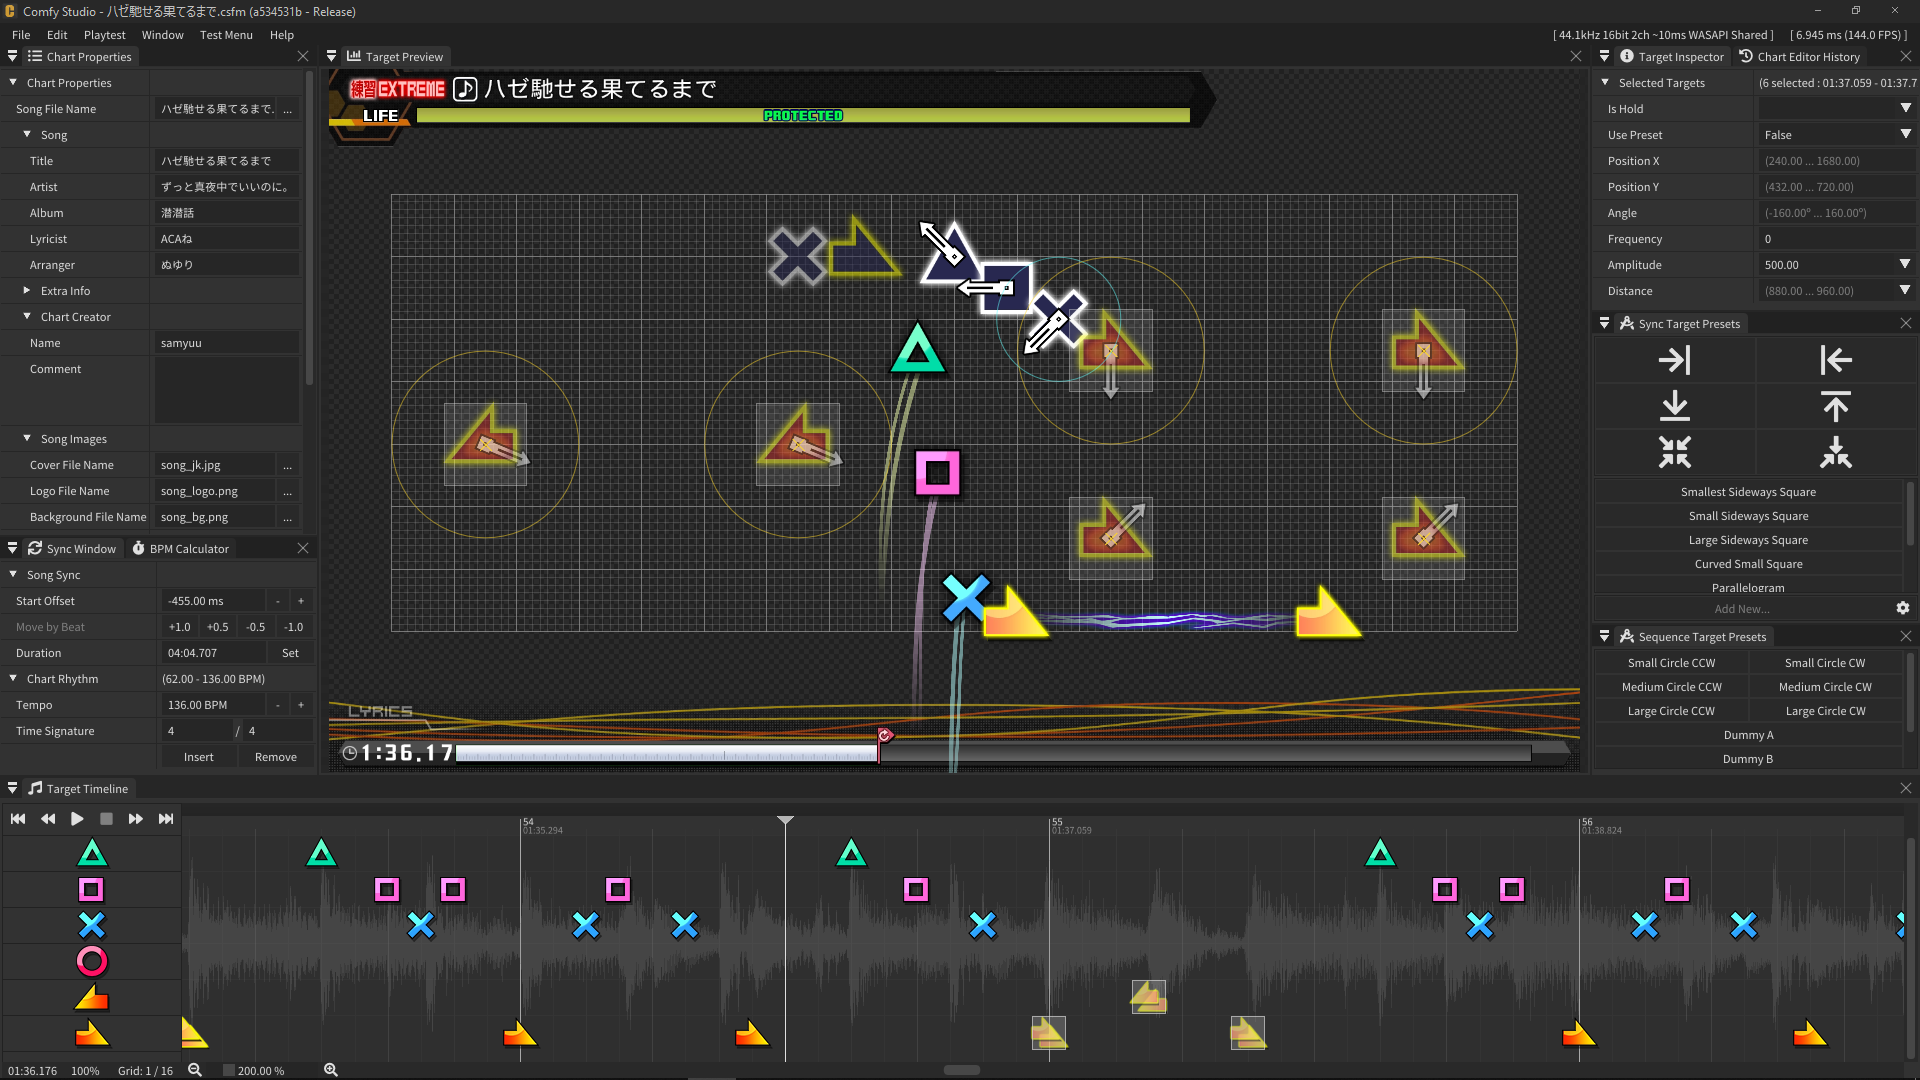
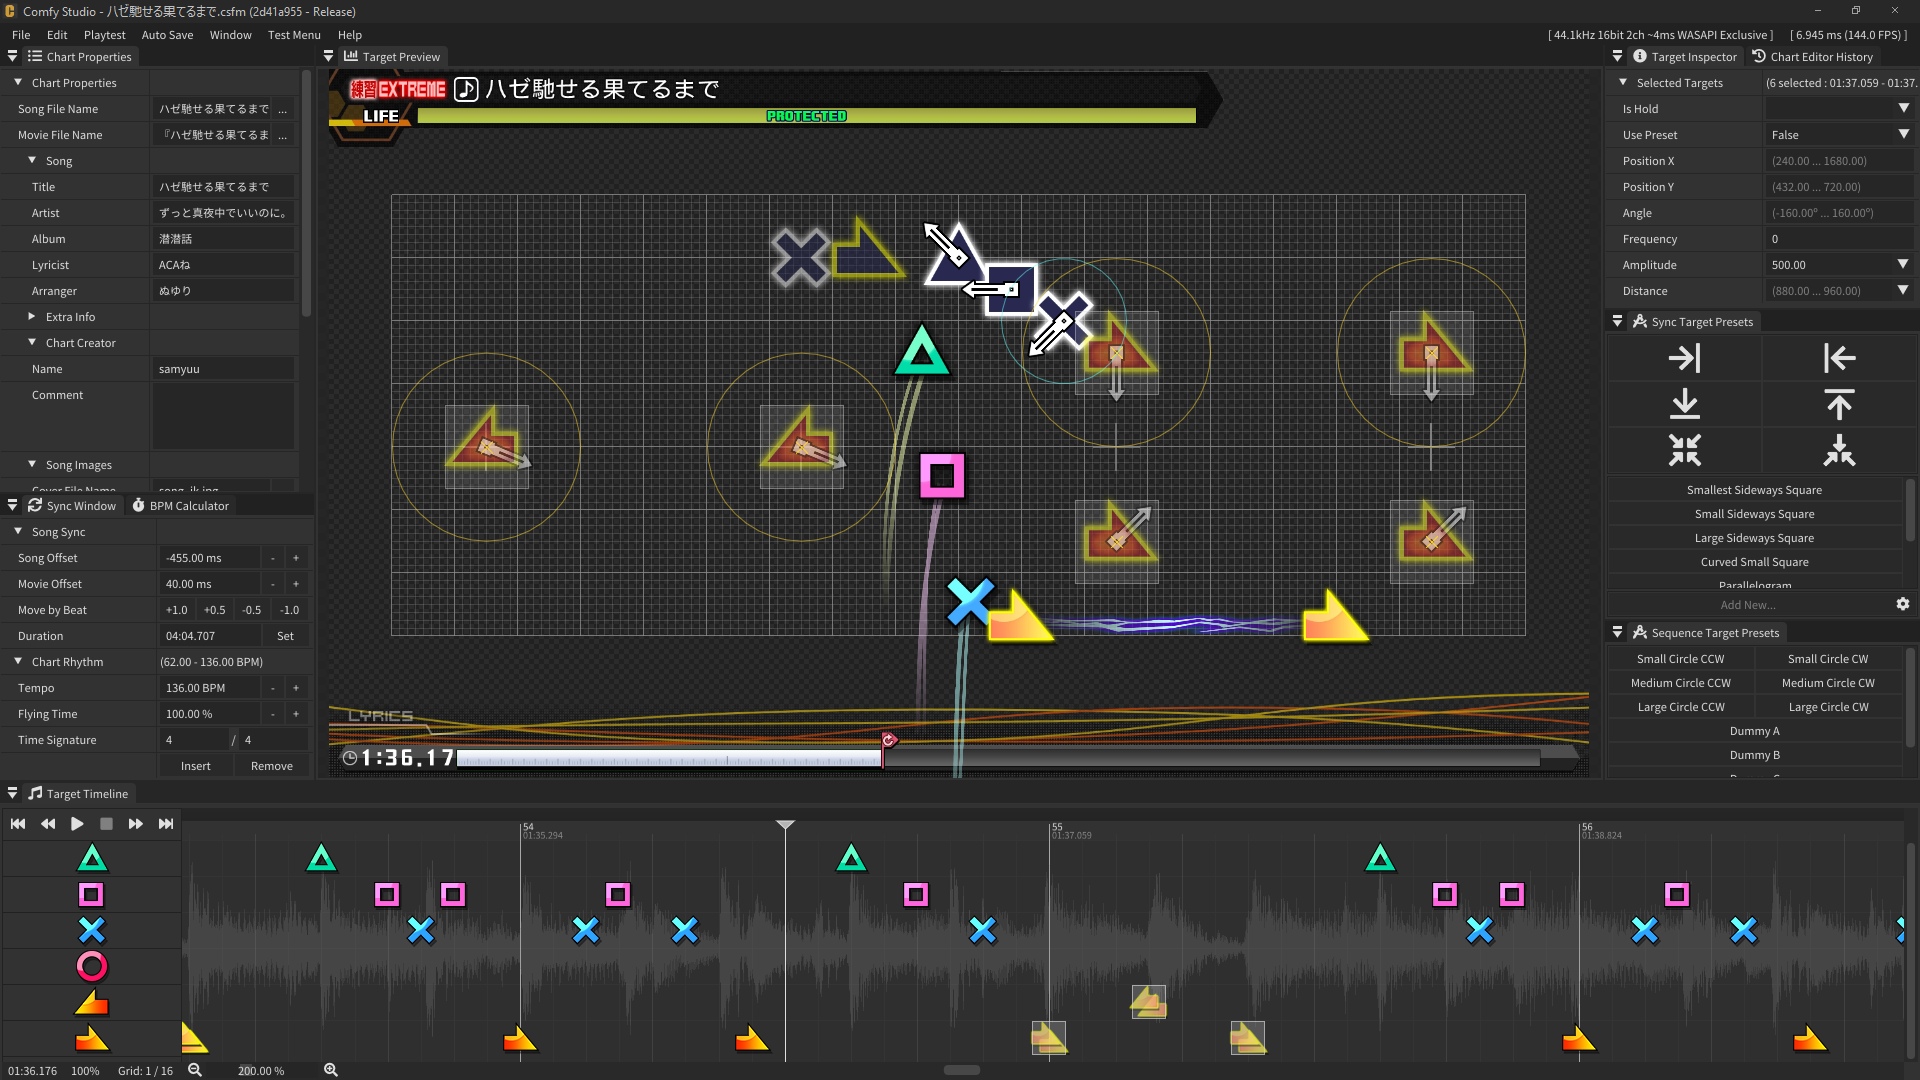
ComfyStudio finally update manual

diff --git a/ComfyStudio/manual/comfy_manual.html b/ComfyStudio/manual/comfy_manual.html
@@ -30,9 +30,9 @@
         <header class="MainHeader">
             <div>
                 <img class="MainHeaderIcon" src="image/comfy_icon.ico">
-                <h1>Comfy Studio Chart Editor (Beta)</h1>
+                <h1>Comfy Studio Chart Editor</h1>
                 <!-- TODO: Keep this updated :Sadge: -->
-                <h4>User Manual - <time>(2021/04/22)</time></h4>
+                <h4>User Manual - <time>(2021/12/02)</time></h4>
             </div>
             <div>
                 <img class="MainHeaderImage" src="image/other/editor_example_chart.png">
@@ -181,13 +181,17 @@
             </div>
 
             <div class="TextBlock">
-                <p>The currently supported audio file formats are:</p>
+                <p>The natively supported audio file formats are:</p>
                 <ul>
                     <li>Free Lossless Audio Codec (*.flac)</li>
                     <li>Ogg Vorbis (*.ogg)</li>
                     <li>MPEG Audio Layer III (*.mp3)</li>
                     <li>Waveform Audio File Format (*.wav)</li>
                 </ul>
+                <p>
+                    With an additional option of using a <em>video file</em> as audio source
+                    as long as it is supported by Microsoft Media Foundation on the current system.
+                </p>
             </div>
             <div class="ImageBlock">
                 <img src="image/other/file_dialog_audio_file_types.png">
@@ -202,6 +206,28 @@
             <div class="ImageBlock">
                 <img src="image/timeline/waveform_example.png">
             </div>
+
+            <div class="TextBlock">
+                <p>
+                    In addition to loading an audio file an optional background video can also be selected
+                    the same way via the <code>Movie File Name</code> widget.
+                    <br>
+                    If a video file is dropped onto the window and no audio file has been selected yet
+                    then the video file will automatically be set as both the audio and video source.
+                </p>
+                <figure class="NoteFigure">
+                    <p>
+                        <strong>Note:</strong> Rendering of a video file inside Comfy Studio requires
+                        a GPU with hardware accelerated Media Foundation support
+                        to be available for the specified codec as well as Windows 8 or newer.
+                        <br>
+                        Media Foundation plugins for additional codecs such as H.265 and VP9
+                        may have to be installed
+                        <a href="https://codecguide.com/media_foundation_codecs.htm" target="_blank">externally</a>
+                    </p>
+                </figure>
+            </div>
+
         </section>
         <hr>
         <section class="SubSection" id="setting-metadata">
@@ -290,12 +316,6 @@
                                 The default button sounds associated with the chart and the sounds used inside the
                                 editor as well as during playtesting.
                             </p>
-
-                            <figure class="NoteFigure">
-                                <p>
-                                    <strong>Note:</strong> <em>Right Click</em> a combo box item to preview its sound.
-                                </p>
-                            </figure>
                         </ul>
                     </div>
                 </div>
@@ -321,36 +341,41 @@
                     The <em>Sync Window</em> is the main method of setting a song's tempo, start offset and duration.
                 </p>
                 <p>
-                    The <code>Start Offset</code> widget is used for setting the offset of the song audio file relative
+                    The <code>Song Offset</code> widget is used for setting the offset of the song audio file relative
                     to the
                     start of the chart.
                     A <em>negative</em> offset results in the song starting <em>later</em>, a <em>positive</em> offset
                     <em>earlier</em>. The Target Timeline waveform can be a very useful tool in finding a suitable
                     offset.
                     <br>
+                    <code>Move Offset</code> matches the behavior of the <code>Song Offset</code>
+                    but is instead applied to the the background movie file.
+                    <br>
                     The <code>Move by Beat</code> buttons add or subtract a fraction of the duration of a beat at the
-                    initial tempo to the Start Offset.
-                    This is especially useful when for example delaying the start offset of a song up to the second
+                    initial tempo to the Song Offset
+                    and is especially useful when delaying the offset of a song up to the second
                     <span class="TimeSigSpan"><sup class="TimeSigSup"><b>4</b></sup><br><sup
                             class="TimeSigSup"><b>4</b></sub></span>
-                    bar as is recommended.
+                    bar as it needs to be.
                     <br>
                     The <code>Duration</code> widget is used for entering the duration of the chart. Upon initially
                     loading an audio file the duration is automatically set to its duration.
                     The <code>Set</code> button can be used to set the Duration to that of the current Target Timeline
                     Cursor position.
                 </p>
+                <!-- TODO: Example video of changing song offset using drag text -->
                 <p>
-                    The <code>Tempo</code> and <code>Time Signature</code> widgets
+                    The <code>Tempo</code>, <code>Flying Time</code> and <code>Time Signature</code> widgets
                     operate on the current Target Timeline cursor position.
                     If the cursor does not sit on an existing Tempo Change, a new one is inserted automatically.
                     <br>
                     Pressing the <code>Remove</code> button removes the tempo change at the cursor position, the very
                     first tempo change however can not be removed.
                     <br>
-                    Allowed tempos range from <code>30.00 BPM</code> to <code>960.00 BPM</code>
-                    and both the numerator and denominator of the time signature may range from <code>1</code> to
-                    <code>64</code>.
+                    Allowed tempos range from <code>30.00 BPM</code> to <code>960.00 BPM</code>,
+                    flying times from <code>50.00 %</code> to <code>400.00 %</code>
+                    and both the numerator and denominator of the time signature
+                    can be set anywhere from <code>1</code> to <code>64</code>.
                 </p>
 
                 <figure class="NoteFigure">
@@ -372,6 +397,21 @@
                 <p>
                     Alternatively <code>Right Mouse</code> click on an existing Tempo Change in the Target Timeline to
                     open an edit popup with similar functionality to the Sync Window Chart Rhythm widgets.
+                    <br>
+                    Each tempo change (except for the very first) can specify one or more of the 3 available properties:
+                    <code>Tempo</code>, <code>Flying Time</code> and <code>Time Signature</code>.
+                    The <code>Flying Time</code> field can be used to optionally speed up or slow down
+                    the time it takes for a <em>button</em> to each its <em>target</em> after spawning
+                    which in turn makes it appear to be moving slower or faster.
+                </p>
+                <p>
+                    A change in tempo and or flying time takes effect visually after a
+                    <span class="TimeSigSpan"><sup class="TimeSigSup"><b>4</b></sup><br><sup
+                            class="TimeSigSup"><b>4</b></sub></span>
+                    bar transition period.
+                    <br>
+                    The <code>Time Signature</code> field changes the spacing between bar lines drawn on the
+                    timeline as well as the sound pattern of the in-editor metronome when enabled.
                 </p>
             </div>
             <div class="ImageBlock">
@@ -497,7 +537,8 @@
                         <strong>Note:</strong> Targets <strong>mustn't</strong> be placed inside the first <span
                             class="TimeSigSpan"><sup class="TimeSigSup"><b>4</b></sup><br>
                             <sup class="TimeSigSup"><b>4</b></sub> </span> bar (indicated by a darkened background)
-                        as it takes a Button the duration of <em>1 bar</em> to fly towards its Target.
+                        as it takes a Button the duration of <em>1 bar</em> to (at 100% flying speed) to fly towards its
+                        Target.
                     </p>
                 </figure>
             </div>
@@ -519,7 +560,8 @@
                     the <code>Chain Slide Division</code> context menu options.
                     <br>
                     Holding down <code>Shift</code> and pressing a <em>non-slide</em> button key will fill in the
-                    range-selection at the current grid division level with normal targets instead.
+                    range-selection at the current grid division level with normal targets instead (sometimes referred
+                    to as "spam").
                 </p>
             </div>
             <div class="ImageBlock">
@@ -549,7 +591,7 @@
                         and can only be moved if <em>all</em> targets within a sync pair are selected.
                         <br>
                         To separate sync targets and or move targets past each other
-                        the <code>Cut</code> and <code>Paste</code> commands can be used instead.
+                        the <code>Cut</code> and <code>Paste</code> commands should be used instead.
                     </p>
                 </figure>
             </div>
@@ -912,6 +954,7 @@
                     applied to a sync target pair without variations.
                 </p>
                 <p>
+                    <!-- TODO: Finally implement this properly -->
                     At the moment these static sync presets <strong>can not yet be configured</strong>
                     inside the program itself and the <code>Add New...</code> button serves as a placeholder.
                 </p>
@@ -1043,8 +1086,9 @@
                     Sequence presets are applied and previewed the same way
                     as by the <em>Sync Target Presets</em> window.
                     <br>
+                    <!-- TODO: Finally implement this properly -->
                     This feature is <strong>still in development</strong>
-                    and only clockwise / counterclockwise circle presets are available at the moment.
+                    and only basic clockwise / counterclockwise circle presets are available at the moment.
                 </p>
             </div>
             <div class="ImageBlock">
@@ -1123,26 +1167,18 @@
 
             <div class="TextBlock">
                 <p>
-                    Once a chart is completed it can be exported as a <code>.dsc</code> PV Script to be used in-game
+                    A chart can be exported as a <code>.dsc</code> PV Script to be used in-game
                     through either the <code>File > Export > Export PV Script Chart...</code> menu option
                     (to export a single chart file without any additional data)
                     or through <code>File > Export > Export PV Script MData...</code>
-                    (to export a complete MData folder together with all associated files required to be playable).
+                    (to export a single chart as well as an MData folder together
+                    with all its associated files required to be playable right away).
                 </p>
                 <p>
                     At the moment only the <em>Arcade</em> export target format is supported
                     and only a single chart can be exported at a time.
                     If the <em>Output MData ID</em> folder <strong>already exists</strong>
                     then it will be <strong>overwritten</strong>.
-                    <br>
-                    Advanced auto-merge compatibility options are planned for the future
-                    but to export multiple charts at this time requires exporting each chart as its own MData folder
-                    with an incrementing MData ID while always merging with the last.
-                </p>
-                <p>
-                    If enabled the <code>Dummy Movie Reference</code> option adds a <code>pv_db.txt</code> movie file
-                    reference with a name matching that of the output chart + <code>.mp4</code>
-                    as well as <code>.dsc</code> movie play commands at the same time as the music starts.
                 </p>
                 <p>
                     If the chart audio source file isn't already an Ogg Vorbis file
@@ -1160,13 +1196,32 @@
                     If more control over the audio conversion is desired
                     then it is recommended to externally convert the audio file first
                     and linking it as the chart's audio source.
-                    Doing so also means that the audio file doesn't need to be re-encoded on every export
-                    which naturally speeds up the export process.
+                </p>
+                <p>
+                    In the case a movie video file is specified
+                    it is directly copied to the output directory <strong>as is</strong>
+                    without <em>any</em> further processing or consideration
+                    regarding its internal format or codec.
+                    <br>
+                    Manual preprocessing
+                    (via <a href="https://ffmpeg.org/" target="_blank">FFmpeg</a> for example)
+                    to <code>.wmv</code> as well as removing of the audio track may therefore be required.
                 </p>
             </div>
             <div class="ImageBlock">
                 <img src="image/other/export_pv_script_mdata.png">
             </div>
+
+            <p>
+                The current PV Script / MData export options mostly serve as a proof of concept and for quick testing
+                but are not suited for working with multiple charts at once, sharing with other users as mods,
+                nor do they offer great user customizability.
+                <br>
+                To improve on this and also allow exporting into different formats and games,
+                an export plug-in system <em>might</em> be implemented in the future (soon&trade;)
+                which would provide full control over the exact data transformations.
+            </p>
+
         </section>
         <hr>
         <section class="SubSection" id="settings-window">
@@ -1176,8 +1231,8 @@
 
             <div class="TextBlock">
                 <p>
-                    The Settings window can be opened through the <code>Edit > Settings...</code> menu option
-                    or by pressing <code>Ctrl+,</code>.
+                    Program settings can be change through the <code>Edit > Settings...</code> menu option
+                    or by pressing <code>Ctrl+,</code> to open the Settings Window.
                     <br>
                     Comfy Studio comes preconfigured with 1st and 2nd Gen DualShock4 controller support.
                     Other DirectInput compatible controllers can also be used
@@ -1187,10 +1242,21 @@
                     Once a layout mapping has been defined for a controller it can be used to assign input bindings
                     in the <code>Editor Bindings</code> and <code>Playtest Bindings</code> tabs.
                 </p>
-                <p>
-                    <!-- TODO: Explain all options... although probably inside the program itself via tooltips or a description box -->
-                    More detailed explanations and additional options will be coming in the future.
-                </p>
+                <figure class="NoteFigure">
+                    <p>
+                        <strong>Note:</strong> User settings are stored inside <code>settings_user.json</code>
+                        and can be copied over from a previous version when updating Comfy Studio.
+                        <br>
+                        External editing via a text editor might result in settings being overwritten
+                        in case of a syntax error by the user.
+                        Manual creation of a backup in this case is therefore encouraged.
+                        <br>
+                        The <Code>settings_app.json</Code> file stores general persistent program state across runs
+                        and <code>settings_imgui.ini</code> stores the window docking layout, positions and sizes
+                        but should generally not be edited by the user directly.
+                        <br>
+                    </p>
+                </figure>
             </div>
             <div class="ImageBlock">
                 <img src="image/other/settings_window_general.png">
